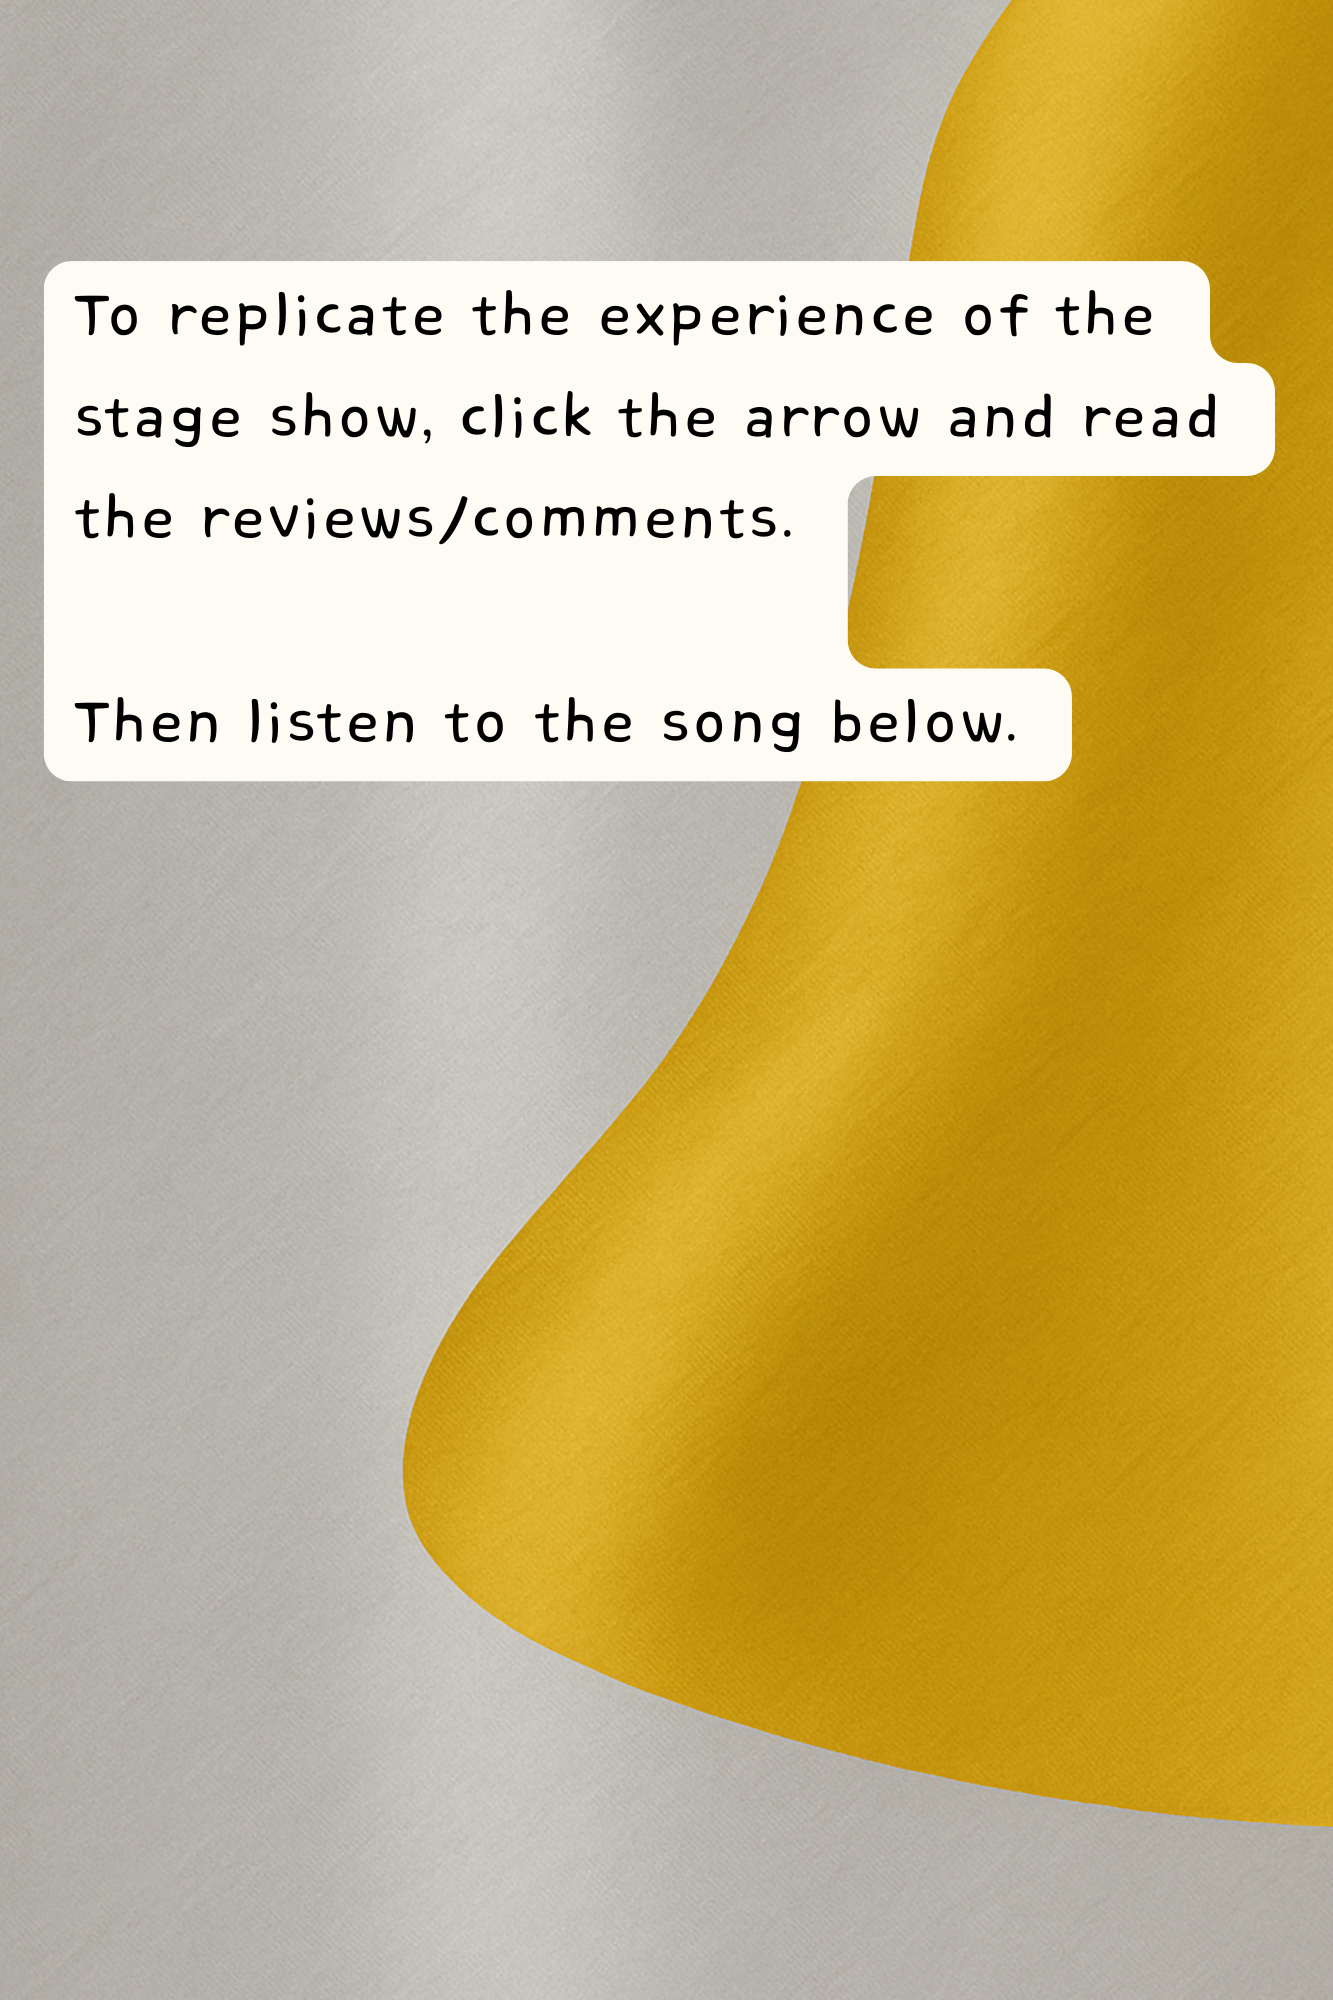
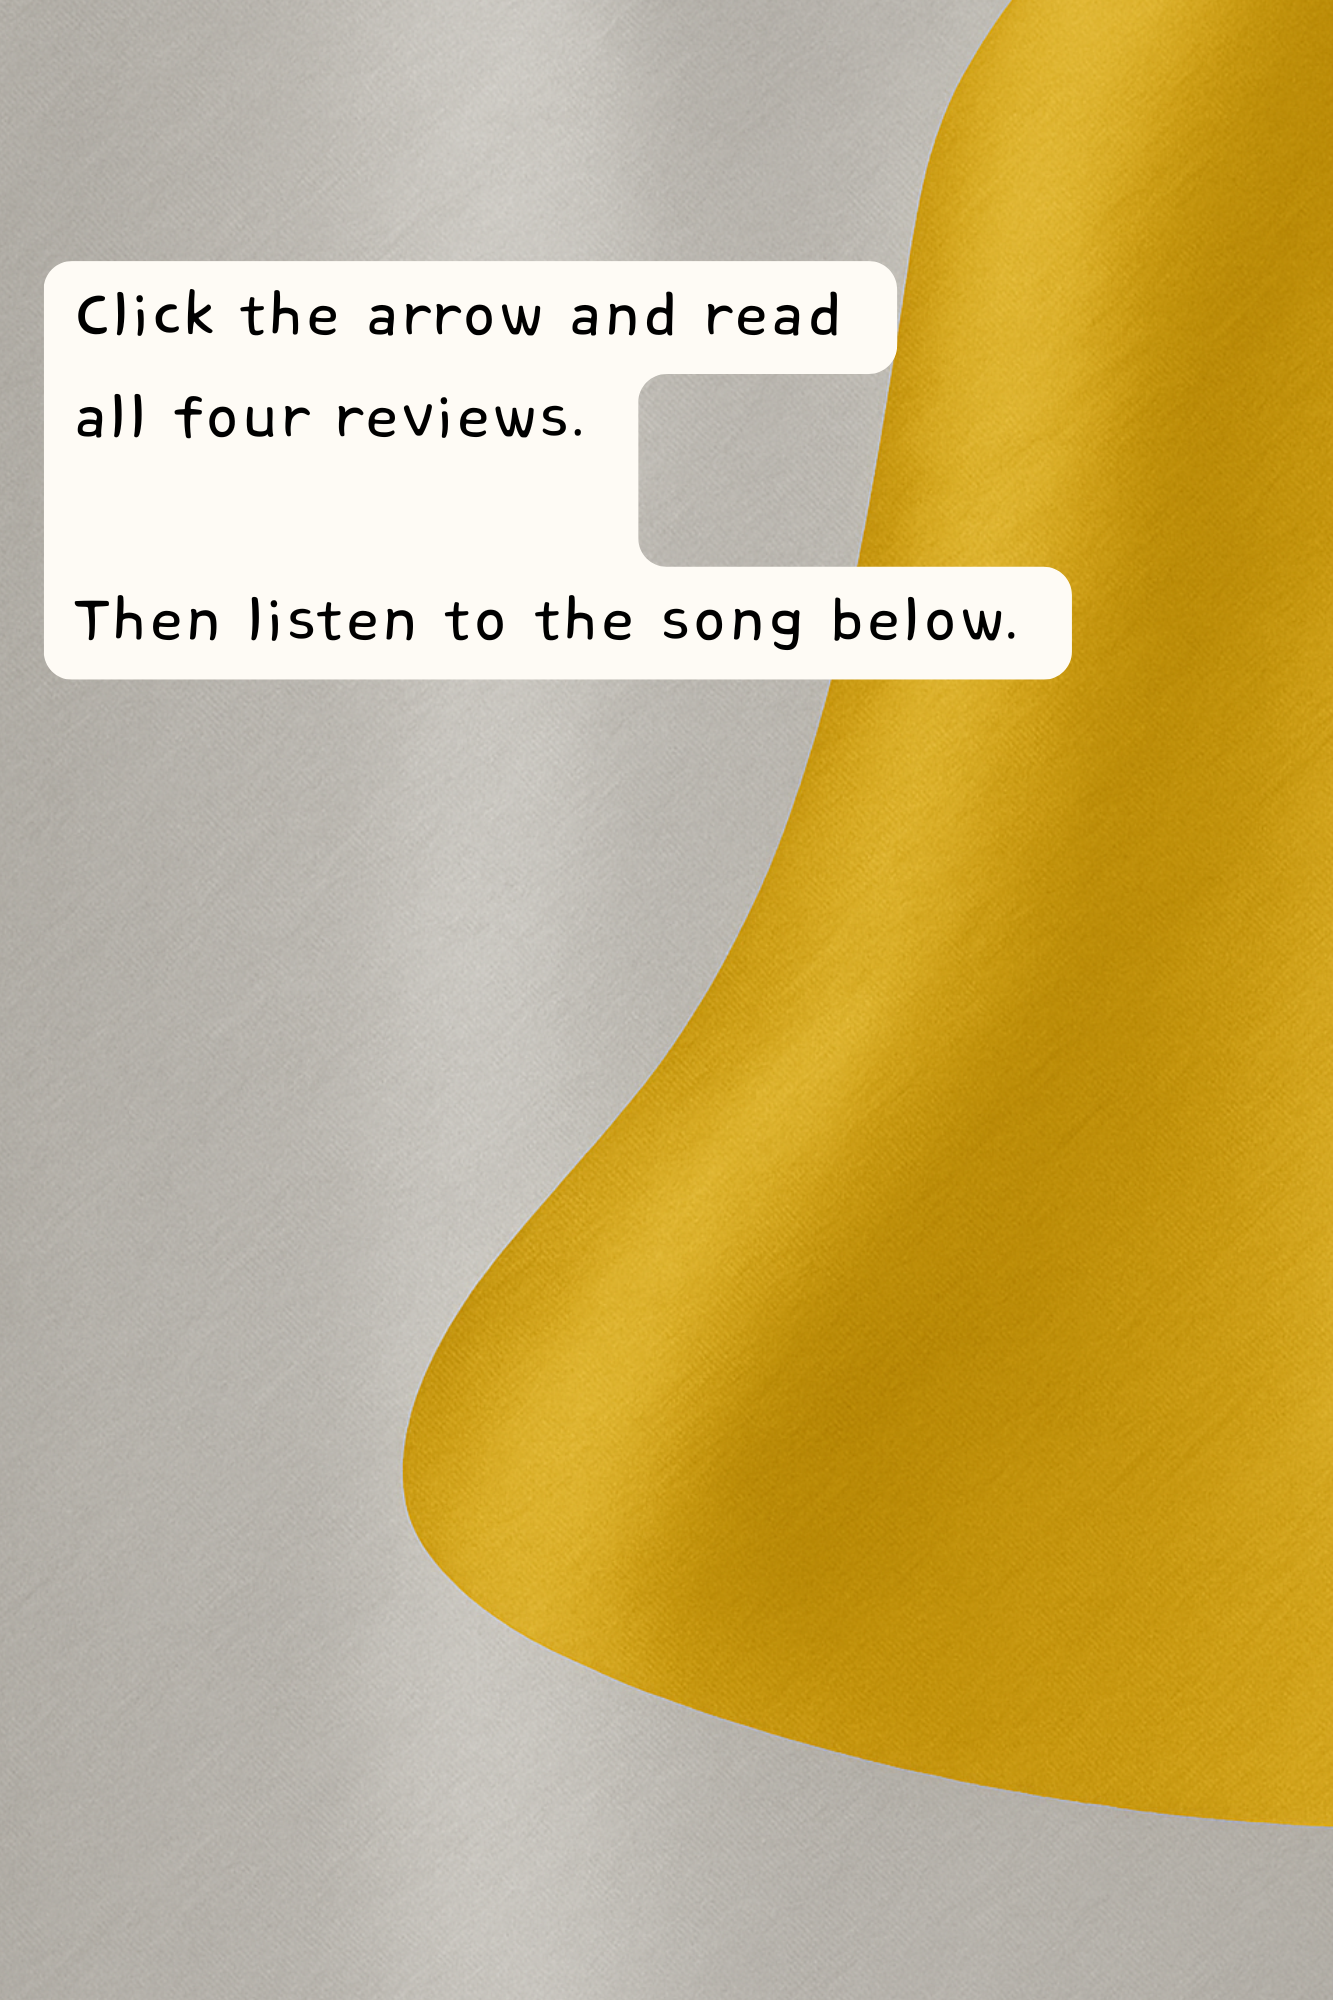
Add Reviews section to About page, Launch Event to home page, fix mobile popup issue
- Add Reviews panel to About page with user testimonials
- Add Launch Event section to home page with Facebook link
- Fix ConfigurableImageCarousel mobile popup blocking scrolling
- Update cover image in snippets2
- Add booklaunch.png image

🤖 Generated with [Claude Code](https://claude.ai/code)

Changed region(s): [[0.0308, 0.124, 0.9535, 0.403]]

diff --git a/src/app/about/page.tsx b/src/app/about/page.tsx
@@ -61,6 +61,51 @@ export default function About() {
               Right handed, average height. Good with words.
             </p>
           </div>
+
+          <div className="mt-8 bg-blue-gray/10 rounded-2xl p-8 border-l-4 border-blue-gray">
+            <h2 className="text-2xl font-bold text-dark-green mb-6">Reviews</h2>
+            <div className="space-y-6 text-foreground">
+              <div className="border-b border-gray-200 pb-4">
+                <p className="text-lg italic mb-2">Very, very funny</p>
+                <p className="text-sm font-semibold text-dark-green">Tim G.</p>
+              </div>
+              
+              <div className="border-b border-gray-200 pb-4">
+                <p className="text-lg italic mb-2">Love it. Very funny and there are some real interesting reviews! Some people!</p>
+                <p className="text-sm font-semibold text-dark-green">Patrick TT</p>
+              </div>
+              
+              <div className="border-b border-gray-200 pb-4">
+                <p className="text-lg italic mb-2">Witty, sarcastic, OMG!!</p>
+                <p className="text-sm font-semibold text-dark-green">Tara-Lea M.</p>
+              </div>
+              
+              <div className="border-b border-gray-200 pb-4">
+                <p className="text-lg italic mb-2">Strangely hypnotic</p>
+                <p className="text-sm font-semibold text-dark-green">Thomas S.</p>
+              </div>
+              
+              <div className="border-b border-gray-200 pb-4">
+                <div className="text-lg italic mb-2 space-y-3">
+                  <p>Before reading it, I thought Google Reviews were where boomers went to yell at restaurants for not having table service. Now I leave poetic essays about the ambience of petrol stations and question the existential worth of public toilets.</p>
+                  
+                  <p>Takes us on a journey through the murky world of online judgment. From the savage elegance of the one-star takedown to the cultish devotion of the five-star love letter.</p>
+                  
+                  <p>I laughed. I cried. I almost left a review halfway through this review.</p>
+                  
+                  <p>This book will inspire you to reconsider everything: your coffee, your dentist, and the philosophical meaning of star ratings.</p>
+                  
+                  <p>Final verdict: 5 stars. Would review again.</p>
+                </div>
+                <p className="text-sm font-semibold text-dark-green">Chris C.</p>
+              </div>
+              
+              <div>
+                <p className="text-lg italic mb-2">Not bad for a book about reviews. 5 stars</p>
+                <p className="text-sm font-semibold text-dark-green">Jamie S.</p>
+              </div>
+            </div>
+          </div>
         </div>
       </div>
     </div>

diff --git a/src/components/ConfigurableImageCarousel.tsx b/src/components/ConfigurableImageCarousel.tsx
@@ -20,6 +20,7 @@ const ConfigurableImageCarousel = ({ images }: ConfigurableImageCarouselProps) =
   const [showInstructions, setShowInstructions] = useState(false);
   const [carouselLoaded, setCarouselLoaded] = useState(false);
   const [isMobile, setIsMobile] = useState(false);
+  const [hasShownInstructions, setHasShownInstructions] = useState(false);
 
   const nextImage = useCallback(() => {
     setCurrentIndex((prev) => (prev + 1) % images.length);
@@ -71,28 +72,35 @@ const ConfigurableImageCarousel = ({ images }: ConfigurableImageCarouselProps) =
     
     if (isMobile) {
       // For mobile: show modal immediately on first page load
-      const timer = setTimeout(() => setShowInstructions(true), 500);
+      const timer = setTimeout(() => {
+        setShowInstructions(true);
+        setHasShownInstructions(true);
+      }, 500);
       return () => clearTimeout(timer);
     } else {
       // For desktop: normal 2-second delay
-      const timer = setTimeout(() => setShowInstructions(true), 2000);
+      const timer = setTimeout(() => {
+        setShowInstructions(true);
+        setHasShownInstructions(true);
+      }, 2000);
       return () => clearTimeout(timer);
     }
   }, [isMobile]);
 
   // Mobile fallback: show modal on any touch interaction if not shown yet
   useEffect(() => {
-    if (!isMobile) return;
+    if (!isMobile || hasShownInstructions) return;
     
     const handleTouch = () => {
       if (!showInstructions && carouselLoaded) {
         setShowInstructions(true);
+        setHasShownInstructions(true);
       }
     };
 
     document.addEventListener('touchstart', handleTouch, { once: true, passive: true });
     return () => document.removeEventListener('touchstart', handleTouch);
-  }, [showInstructions, carouselLoaded, isMobile]);
+  }, [showInstructions, carouselLoaded, isMobile, hasShownInstructions]);
 
   // Keyboard navigation
   useEffect(() => {

diff --git a/src/app/page.tsx b/src/app/page.tsx
@@ -1,4 +1,5 @@
 import ImageCarousel from '@/components/ImageCarousel';
+import Image from 'next/image';
 
 export default function Home() {
   return (
@@ -23,6 +24,31 @@ export default function Home() {
                 className="inline-block bg-orange hover:bg-orange/90 text-white font-bold py-4 px-8 rounded-lg transition-all duration-200 shadow-lg hover:shadow-xl text-lg"
               >
                 Amazon
+              </a>
+            </div>
+          </div>
+        </div>
+      </div>
+
+      {/* Launch Event Section */}
+      <div className="py-12 bg-white">
+        <div className="container mx-auto px-6">
+          <div className="text-center">
+            <h2 className="text-3xl font-bold text-dark-green mb-8">Launch Event</h2>
+            <div className="flex justify-center">
+              <a 
+                href="https://www.facebook.com/share/1EdVMS2rUc/"
+                target="_blank"
+                rel="noopener noreferrer"
+                className="block hover:opacity-90 transition-opacity duration-200"
+              >
+                <Image
+                  src="/booklaunch.png"
+                  alt="Book Launch Event"
+                  width={600}
+                  height={400}
+                  className="rounded-lg shadow-lg hover:shadow-xl transition-shadow duration-200"
+                />
               </a>
             </div>
           </div>
